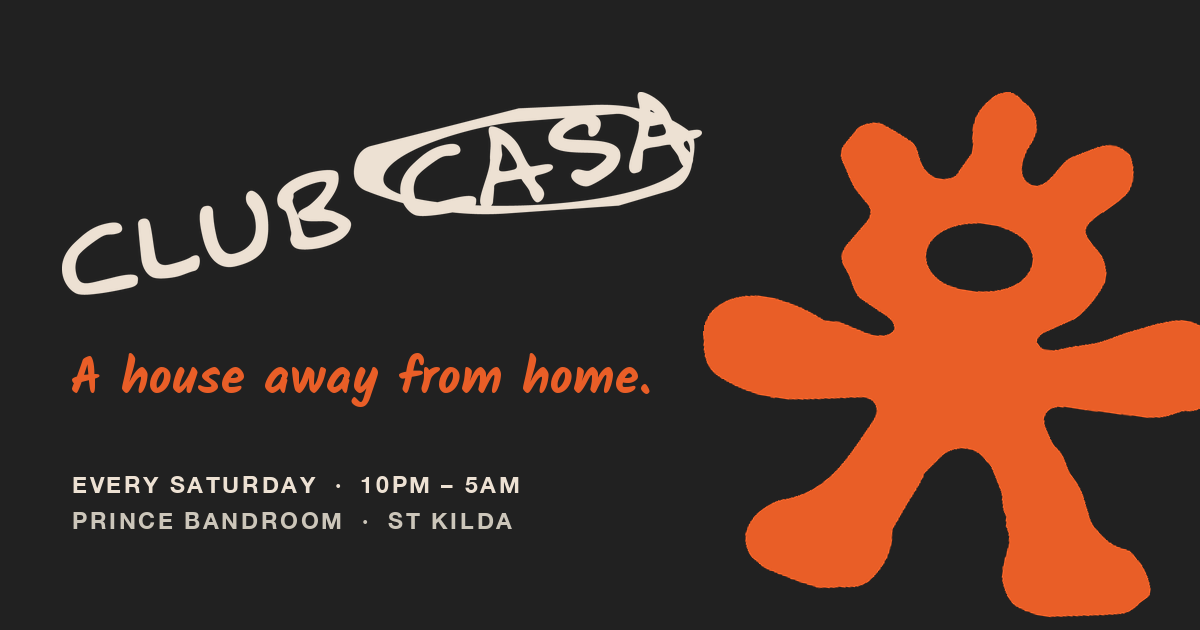
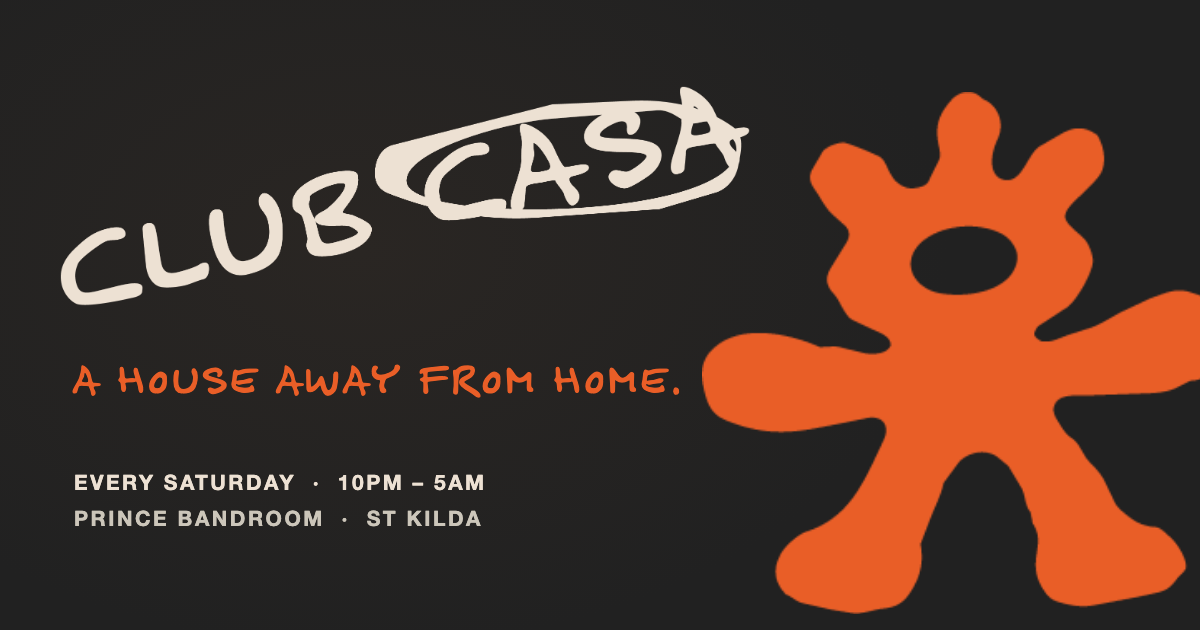
Felt Tip Senior, the brand's display face, in place of the Kalam stand-in
- The font arrived in the branding pack's Fonts folder. It's a licensed Mark Simonson face and this repository is public, so the file isn't in it: the WOFF2 (25 KB) is kept with the back office's files in Sanity and served from /fonts/felt-tip-senior-regular.woff2 by a pass-through route, cached for a year (Sanity's CDN only allows cross-site font loads for listed sites).
- @font-face scales it 120%, since its capitals are shorter and wider than Kalam's: headings keep their measure. It's preloaded, covers every weight the site asks for, and the canvas textures (Casa Radio's record labels, the maker's plate) and the ticket art use it too.
- The taglines are set in capitals, as the guideline sets Felt Tip Senior; the hand-written notes stay lower case.
- The share card is redrawn with the new tagline, here and in the back office (About Club Casa).
- @fontsource/kalam is gone.

diff --git a/app/app.css b/app/app.css
@@ -1,11 +1,23 @@
 /*
  * Club Casa v2, from the official Club Casa Brand Guideline (Alicyte Design):
- *   Felt Tip Senior (logo and hand-drawn display; Kalam stands in until the font files are supplied)
+ *   Felt Tip Senior (logo and hand-drawn display, set in capitals; served from /fonts, see routes/font.ts)
  *   Helvetica Neue Bold (line-ups and labels; Arimo stands in off Apple devices)
  *   Roboto Mono (body copy, set in capitals)
  *   Orange #E95E27, Charcoal #212121, Stone #CCC6BA, Cream #EDE1D3, and nothing else
  */
-@import '@fontsource/kalam/latin-700.css';
+/*
+ * Felt Tip Senior's capitals are short and wide (a cap height of 0.43 em against Kalam's 0.75, which the sizes were
+ * first set for), so it's scaled to run about as wide as Kalam did and the headings keep their measure.
+ */
+@font-face {
+  font-family: 'Felt Tip Senior';
+  src: url('/fonts/felt-tip-senior-regular.woff2') format('woff2');
+  font-weight: 100 900;
+  font-style: normal;
+  font-display: swap;
+  size-adjust: 120%;
+}
+
 @import '@fontsource/roboto-mono/latin-400.css';
 @import '@fontsource/roboto-mono/latin-500.css';
 @import '@fontsource/arimo/latin-700.css';
@@ -58,7 +70,7 @@
   --stone: #ccc6ba;
   --cream: #ede1d3;
 
-  --font-hand: 'Felt Tip Senior', Kalam, 'Marker Felt', cursive;
+  --font-hand: 'Felt Tip Senior', 'Marker Felt', cursive;
   --font-bold: 'Helvetica Neue', Helvetica, Arimo, Arial, sans-serif;
   --font-mono: 'Roboto Mono', ui-monospace, Menlo, monospace;
   --gutter: clamp(16px, 4vw, 56px);
@@ -710,7 +722,6 @@ html:has(.sheet[open]) {
 
 .hero-tagline {
   font-size: clamp(30px, 4.6vw, 64px);
-  text-transform: none;
 }
 
 .hero-hours {
@@ -763,7 +774,6 @@ html:has(.sheet[open]) {
 
 .about-lede {
   font-size: clamp(34px, 4.2vw, 60px);
-  text-transform: none;
 }
 
 .about-copy .mono {
@@ -2248,7 +2258,6 @@ html:has(.sheet[open]) {
 .footer-tagline {
   color: var(--orange);
   font-size: clamp(22px, 2vw, 30px);
-  text-transform: none;
 }
 
 .footer-venue {
@@ -4080,6 +4089,13 @@ html[data-crate-deck] .radio-dock {
   justify-self: end;
   rotate: 20deg;
   width: 2.4em;
+}
+
+/* Only where there's room beside the crate for it. */
+@media (max-width: 1100px) {
+  .crate-note {
+    display: none;
+  }
 }
 
 .crate-dates {

diff --git a/app/routes/font.ts b/app/routes/font.ts
@@ -1,0 +1,20 @@
+/*
+ * The display face, Felt Tip Senior (Mark Simonson, licensed to Club Casa), served from the site's own address. The
+ * file isn't in this repository, which is public: it's kept with the back office's assets in Sanity and passed
+ * through here, so the browser loads it like any of the site's own fonts (cross-site fonts need CORS, which the
+ * Sanity CDN only allows for listed sites). Vercel's CDN keeps a copy, so the function runs about once a deploy.
+ */
+
+/** The WOFF2, uploaded to the Club Casa Sanity project (ea9ln9aa). */
+const SOURCE = 'https://cdn.sanity.io/files/ea9ln9aa/production/ad281287904a2c6350ebebad6e5e8274e647a82a.woff2'
+
+export async function loader() {
+  const response = await fetch(SOURCE, { signal: AbortSignal.timeout(8000) }).catch(() => null)
+  if (!response?.ok) return new Response('Font unavailable', { status: 502, headers: { 'Cache-Control': 'no-store' } })
+  return new Response(response.body, {
+    headers: {
+      'Content-Type': 'font/woff2',
+      'Cache-Control': 'public, max-age=31536000, s-maxage=31536000, immutable',
+    },
+  })
+}

diff --git a/app/components/PlanArt.tsx b/app/components/PlanArt.tsx
@@ -23,7 +23,7 @@ const EMBLEM = { href: markUrl('emblem'), ratio: 212 / 257 }
 const TINTS = { orange, charcoal, stone, cream } as const
 type Tint = keyof typeof TINTS
 
-const HAND = 'Kalam, "Marker Felt", cursive'
+const HAND = '"Felt Tip Senior", "Marker Felt", cursive'
 const BOLD = '"Helvetica Neue", Helvetica, Arimo, Arial, sans-serif'
 const MONO = '"Roboto Mono", ui-monospace, monospace'
 
@@ -267,7 +267,7 @@ function BirthdayScene({ id }: { id: string }) {
       <g transform="translate(212 74)">
         <g className="bd-bubble">
           <path d="M0 0 Q-4 -24 30 -26 Q66 -26 62 -10 Q60 4 22 2 Q12 2 2 10 Q6 4 0 0 Z" fill={cream} stroke={charcoal} strokeWidth="1.4" />
-          <text x="31" y="-8" textAnchor="middle" fill={charcoal} style={{ font: `700 14px ${HAND}` }}>
+          <text x="31" y="-8" textAnchor="middle" fill={charcoal} style={{ font: `400 14px ${HAND}` }}>
             hooray!
           </text>
         </g>

diff --git a/app/root.tsx b/app/root.tsx
@@ -1,4 +1,3 @@
-import kalamBold from '@fontsource/kalam/files/kalam-latin-700-normal.woff2?url'
 import type { ReactNode } from 'react'
 import {
   isRouteErrorResponse,
@@ -44,7 +43,7 @@ export const links: Route.LinksFunction = () => [
   // CSS masks and the WebGL tile both fetch the logo in CORS mode, so the preload must match or it goes unused.
   { rel: 'preload', href: '/brand/logo.svg', as: 'image', type: 'image/svg+xml', crossOrigin: 'anonymous' },
   { rel: 'preload', href: markUrl('logo'), as: 'image', type: 'image/png', crossOrigin: 'anonymous' },
-  { rel: 'preload', href: kalamBold, as: 'font', type: 'font/woff2', crossOrigin: 'anonymous' },
+  { rel: 'preload', href: '/fonts/felt-tip-senior-regular.woff2', as: 'font', type: 'font/woff2', crossOrigin: 'anonymous' },
   { rel: 'icon', href: '/favicon.svg', type: 'image/svg+xml' },
 ]
 

diff --git a/app/three/turntable/textures.ts b/app/three/turntable/textures.ts
@@ -115,7 +115,7 @@ export function recordLabelTexture(mix: Mix, assets: MarkAssets | null) {
     ctx.fillStyle = palette.cream
     ctx.textAlign = 'center'
     ctx.textBaseline = 'middle'
-    ctx.font = '700 44px Kalam, "Marker Felt", cursive'
+    ctx.font = '400 44px "Felt Tip Senior", "Marker Felt", cursive'
     ctx.fillText(mix.label ?? 'CASA RADIO', 256, 104)
     if (assets) ctx.drawImage(tinted(assets.submark, palette.cream, 120), 196, 150)
     ctx.font = '500 26px "Roboto Mono", ui-monospace, monospace'

diff --git a/app/routes.ts b/app/routes.ts
@@ -16,6 +16,8 @@ export default [
   route('artists/:slug', 'routes/artist.tsx'),
   route('api/newsletter', 'routes/api.newsletter.ts'),
   route('api/enquiry', 'routes/api.enquiry.ts'),
+  // The display face, Felt Tip Senior, passed through from the back office's assets (see the route).
+  route('fonts/felt-tip-senior-regular.woff2', 'routes/font.ts'),
   // For search engines and AI assistants.
   route('robots.txt', 'routes/robots.ts'),
   route('sitemap.xml', 'routes/sitemap.ts'),

diff --git a/app/three/textures.ts b/app/three/textures.ts
@@ -340,7 +340,7 @@ export function badgeTexture() {
     ctx.lineWidth = 2
     ctx.strokeRect(5, 5, 246, 54)
     ctx.fillStyle = '#3b2a14'
-    ctx.font = '700 34px Kalam, "Marker Felt", cursive'
+    ctx.font = '400 34px "Felt Tip Senior", "Marker Felt", cursive'
     ctx.textAlign = 'center'
     ctx.textBaseline = 'middle'
     ctx.fillText('CASA', 128, 35)

diff --git a/app/three/assets.ts b/app/three/assets.ts
@@ -9,7 +9,7 @@ export interface MarkAssets {
   check: HTMLImageElement
 }
 
-const HAND = '700 40px Kalam, "Marker Felt", cursive'
+const HAND = '400 40px "Felt Tip Senior", "Marker Felt", cursive'
 const BOLD = '700 40px "Helvetica Neue", Helvetica, Arimo, Arial, sans-serif'
 const MONO = '400 20px "Roboto Mono", ui-monospace, monospace'
 

diff --git a/README.md b/README.md
@@ -100,7 +100,7 @@ From the official Club Casa Brand Guideline (Alicyte Design):
 
 - **Colours:** Orange `#E95E27`, Charcoal `#212121`, Stone `#CCC6BA`, Cream `#EDE1D3`, and nothing else. These are the swatch colours in the guideline (and in every post in the pack); two of the hex labels printed on the palette page (`#AA1F23`, `#EE2324`) don't match their swatches.
 - **Colourways:** charcoal leads, as on the posts; cream is the paper stock for content and forms; orange is for moments (the mailing list, accents).
-- **Type:** Felt Tip Senior for the hand-drawn display (Kalam stands in: the font files weren't in the pack, so add them to `public/fonts/` with an `@font-face` in `app/app.css` when they arrive); Helvetica Neue Bold for line-ups and labels (Arimo off Apple devices); Roboto Mono in capitals for body copy.
+- **Type:** Felt Tip Senior, in capitals, for the hand-drawn display; Helvetica Neue Bold for line-ups and labels (Arimo off Apple devices); Roboto Mono in capitals for body copy. Felt Tip Senior is a licensed Mark Simonson font, so it isn't in this public repository: the WOFF2 is kept with the back office's files in Sanity and served from `/fonts/felt-tip-senior-regular.woff2` by `app/routes/font.ts` (the original TTF is in the branding pack's Fonts folder on Dropbox). Its `@font-face` in `app/app.css` scales it up 20%, since its capitals are shorter and wider than the stand-in the sizes were set with.
 - **Marks:** the official logos, emblem and mascot from the pack, in `public/brand/official/`, trimmed to their artwork. Each is drawn as a mask in the current colour, so one file serves every colourway.
 - **Mascot:** Casa (previously Otto).
 
